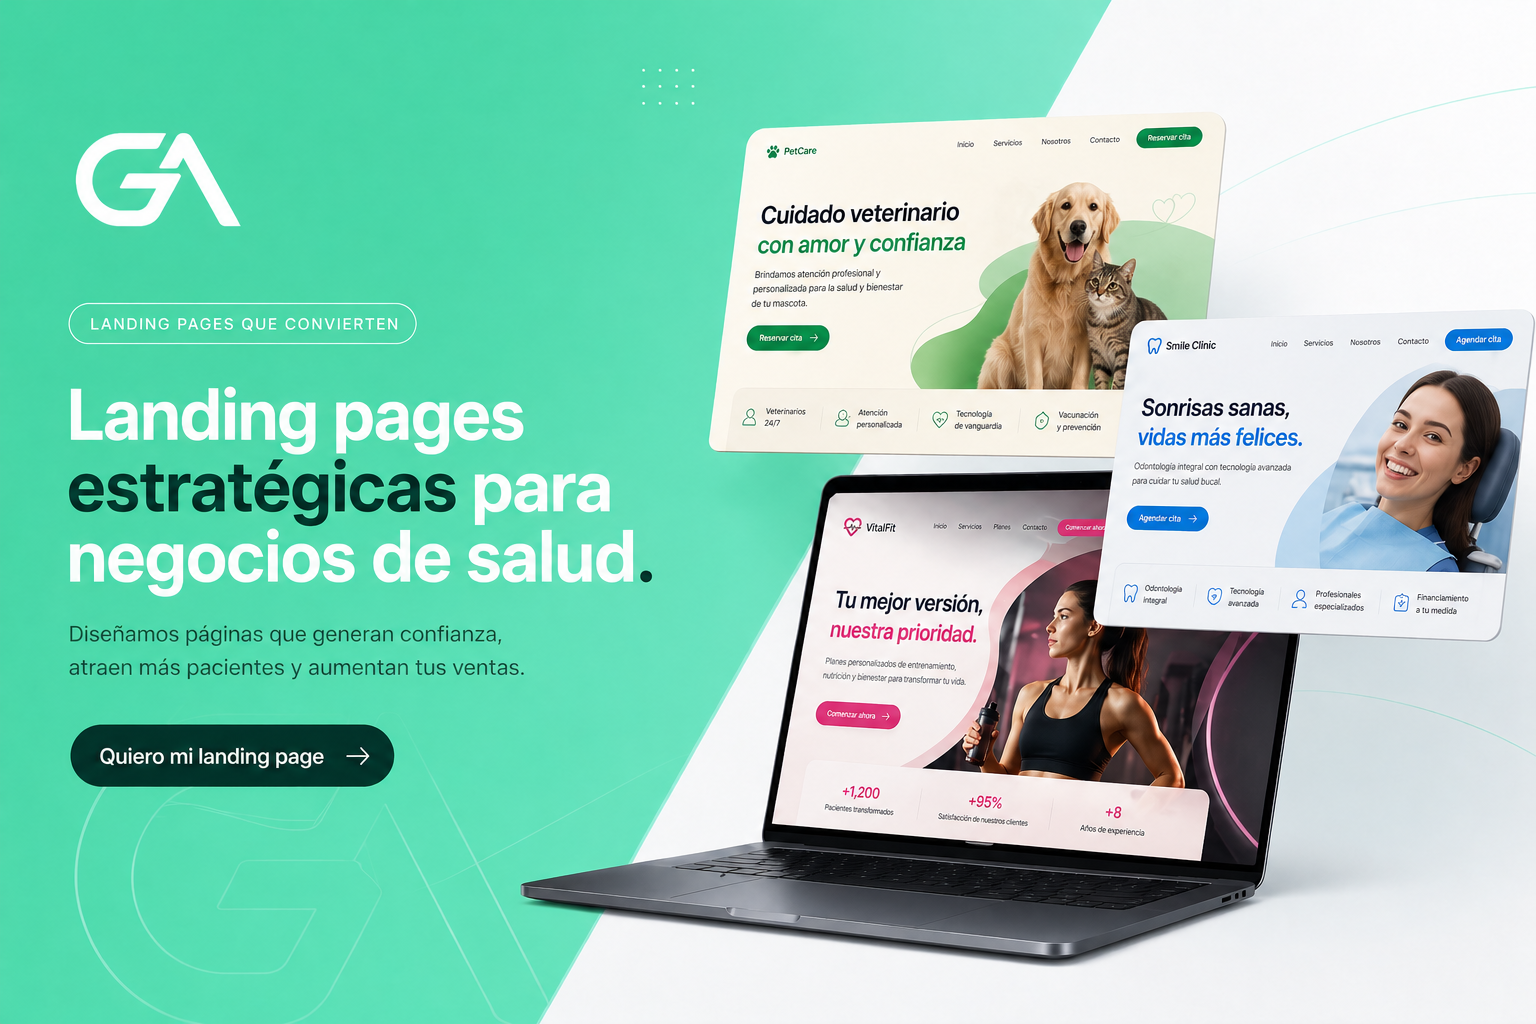
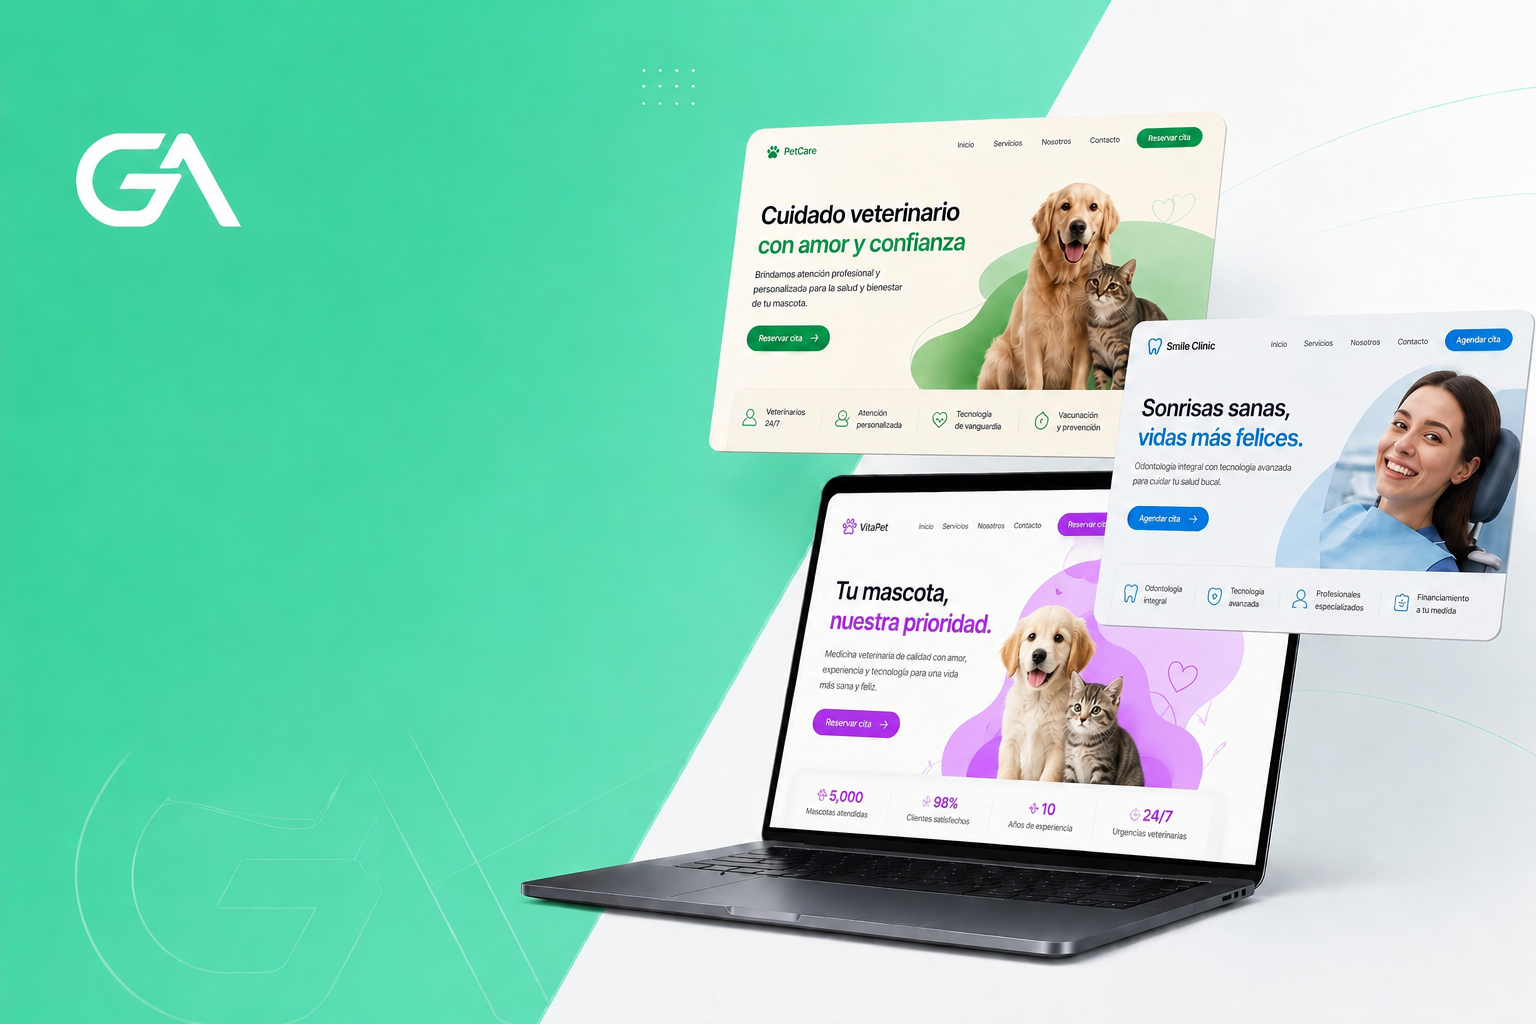
fix: renombrar herofinal(2).png a herofinal.png para compatibilidad con Netlify
Los paréntesis en el nombre causaban 404 en producción.

diff --git a/src/components/sections/Hero.tsx b/src/components/sections/Hero.tsx
@@ -10,7 +10,7 @@ const Hero = () => {
     >
       <div className="absolute inset-0">
         <img
-          src="/herofinal(2).png"
+          src="/herofinal.png"
           alt=""
           className="absolute inset-0 w-full h-full object-cover object-center"
         />
